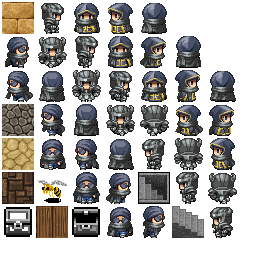
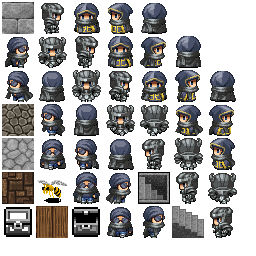
Added more colors to #12

Changed region(s): [[0.0, 0.5312, 0.1562, 0.6875], [0.0, 0.0, 0.1562, 0.1562]]

diff --git a/core/src/com/undeadstudio/gdungeon/gen/Generator.java b/core/src/com/undeadstudio/gdungeon/gen/Generator.java
@@ -93,7 +93,8 @@ public class Generator {
 					// System.out.print("+");
 					dungeon += Tile.WALL_DIRT;
 					engine.addEntity(EntityFactory.instance.newStaticTile(x, y,
-							Assets.instance.wall.reg));
+							Assets.instance.wall.reg,
+							Assets.instance.color.green));
 
 					break;
 
@@ -102,7 +103,8 @@ public class Generator {
 					// System.out.print(".");
 					dungeon += Tile.FLOOR_DIRT;
 					engine.addEntity(EntityFactory.instance.newStaticTile(x, y,
-							Assets.instance.floor.reg));
+							Assets.instance.floor.reg,
+							Assets.instance.color.green));
 					break;
 
 				case tileStoneWall:
@@ -117,7 +119,8 @@ public class Generator {
 					// System.out.print("#");
 					dungeon += Tile.CORRIDOR;
 					engine.addEntity(EntityFactory.instance.newStaticTile(x, y,
-							Assets.instance.corridor.reg));
+							Assets.instance.corridor.reg,
+							Assets.instance.color.green));
 					break;
 
 				case tileDoor:
@@ -125,7 +128,8 @@ public class Generator {
 					// System.out.print("D");
 					dungeon += Tile.DOOR;
 					engine.addEntity(EntityFactory.instance.newStaticTile(x, y,
-							Assets.instance.door.reg));
+							Assets.instance.door.reg,
+							Assets.instance.color.green));
 
 					break;
 
@@ -134,7 +138,8 @@ public class Generator {
 					// System.out.print("<");
 					dungeon += Tile.STAIRS_UP;
 					engine.addEntity(EntityFactory.instance.newStaticTile(x, y,
-							Assets.instance.stairsUp.reg));
+							Assets.instance.stairsUp.reg,
+							Assets.instance.color.green));
 
 					break;
 
@@ -143,7 +148,8 @@ public class Generator {
 					// System.out.print(">");
 					dungeon += Tile.STAIRS_DOWN;
 					engine.addEntity(EntityFactory.instance.newStaticTile(x, y,
-							Assets.instance.stairsUp.reg));
+							Assets.instance.stairsUp.reg,
+							Assets.instance.color.green));
 
 					break;
 

diff --git a/core/src/com/undeadstudio/gdungeon/Assets.java b/core/src/com/undeadstudio/gdungeon/Assets.java
@@ -4,6 +4,7 @@ import com.badlogic.gdx.Gdx;
 import com.badlogic.gdx.assets.AssetDescriptor;
 import com.badlogic.gdx.assets.AssetErrorListener;
 import com.badlogic.gdx.assets.AssetManager;
+import com.badlogic.gdx.graphics.Color;
 import com.badlogic.gdx.graphics.g2d.BitmapFont;
 import com.badlogic.gdx.graphics.g2d.TextureAtlas;
 import com.badlogic.gdx.graphics.g2d.TextureAtlas.AtlasRegion;
@@ -32,6 +33,7 @@ public class Assets implements Disposable, AssetErrorListener {
 	public AssetRouge rouge;
 	public AssetWarrior warrior;
 	public AssetWizard wizard;
+	public AssetColor color;
 
 	private void Assets() {
 	}
@@ -66,6 +68,8 @@ public class Assets implements Disposable, AssetErrorListener {
 		warrior = new AssetWarrior(atlas);
 		wizard = new AssetWizard(atlas);
 
+		color = new AssetColor();
+
 	}
 
 	@Override
@@ -79,7 +83,6 @@ public class Assets implements Disposable, AssetErrorListener {
 	@Override
 	public void dispose() {
 		assetManager.dispose();
-
 	}
 
 	public class AssetFonts {
@@ -231,6 +234,14 @@ public class Assets implements Disposable, AssetErrorListener {
 			wizard_3_0 = atlas.findRegion("wizard-3-0");
 			wizard_3_1 = atlas.findRegion("wizard-3-1");
 			wizard_3_2 = atlas.findRegion("wizard-3-2");
+		}
+	}
+
+	public class AssetColor {
+		public final Color green;
+
+		public AssetColor() {
+			green = new Color(0, 1, 0, 1);
 		}
 	}
 

diff --git a/core/src/com/undeadstudio/gdungeon/ashley/utils/EntityFactory.java b/core/src/com/undeadstudio/gdungeon/ashley/utils/EntityFactory.java
@@ -13,10 +13,10 @@ public class EntityFactory {
 	private EntityFactory() {
 	}
 
-	public Entity newStaticTile(int x, int y, TextureRegion region) {
+	public Entity newStaticTile(int x, int y, TextureRegion region, Color color) {
 
 		Entity entity = new Entity();
-		entity.add(new VisualComponent(region, new Color(0.5f, 1f, 0.5f, 1f)));
+		entity.add(new VisualComponent(region, color));
 		entity.add(new PositionComponent(x, y));
 		return entity;
 	}

diff --git a/core/src/com/undeadstudio/gdungeon/screens/AshleyGameScreen.java b/core/src/com/undeadstudio/gdungeon/screens/AshleyGameScreen.java
@@ -84,7 +84,7 @@ public class AshleyGameScreen implements Screen {
 			rouge.add(new PositionComponent(25, 25));
 			// rouge.add(new MovementComponent(0, 0));
 			rouge.add(new VisualComponent(Assets.instance.rouge.rouge_0_0,
-					new Color()));
+					new Color(1, 1, 1, 1)));
 			rouge.add(new InputComponent(new EntityController(camera, rouge)));
 
 			engine.addEntity(rouge);
